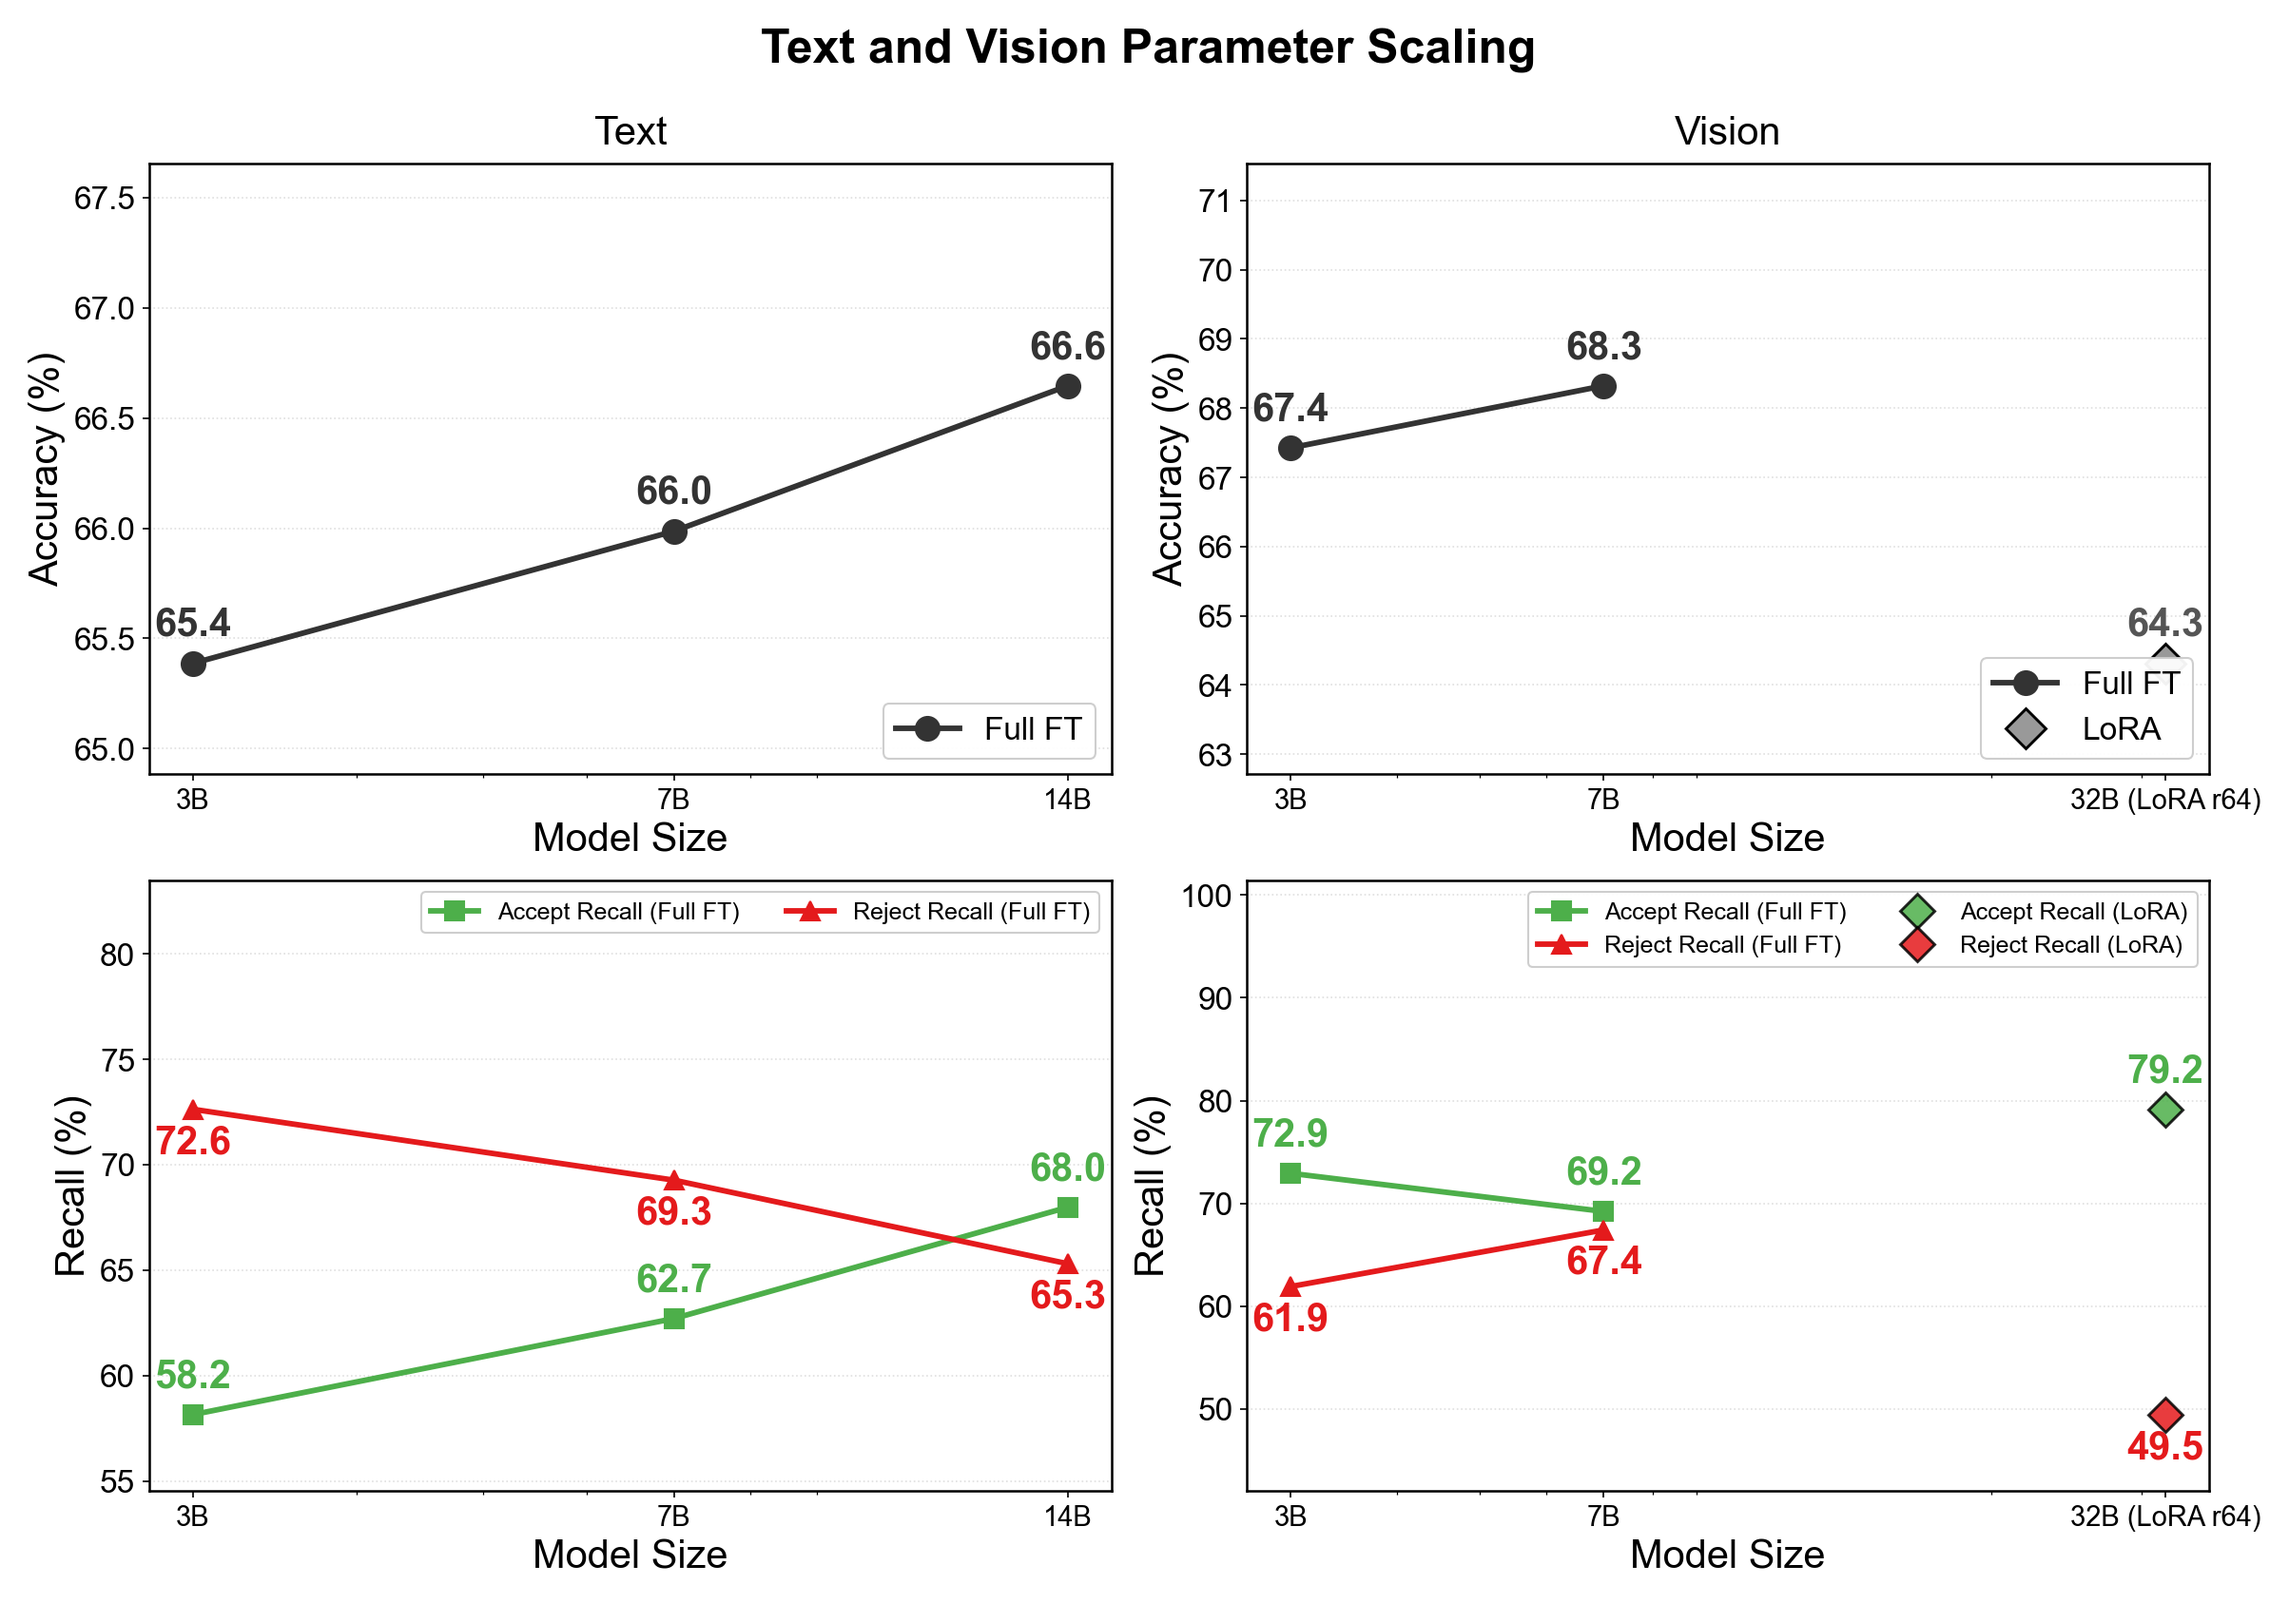
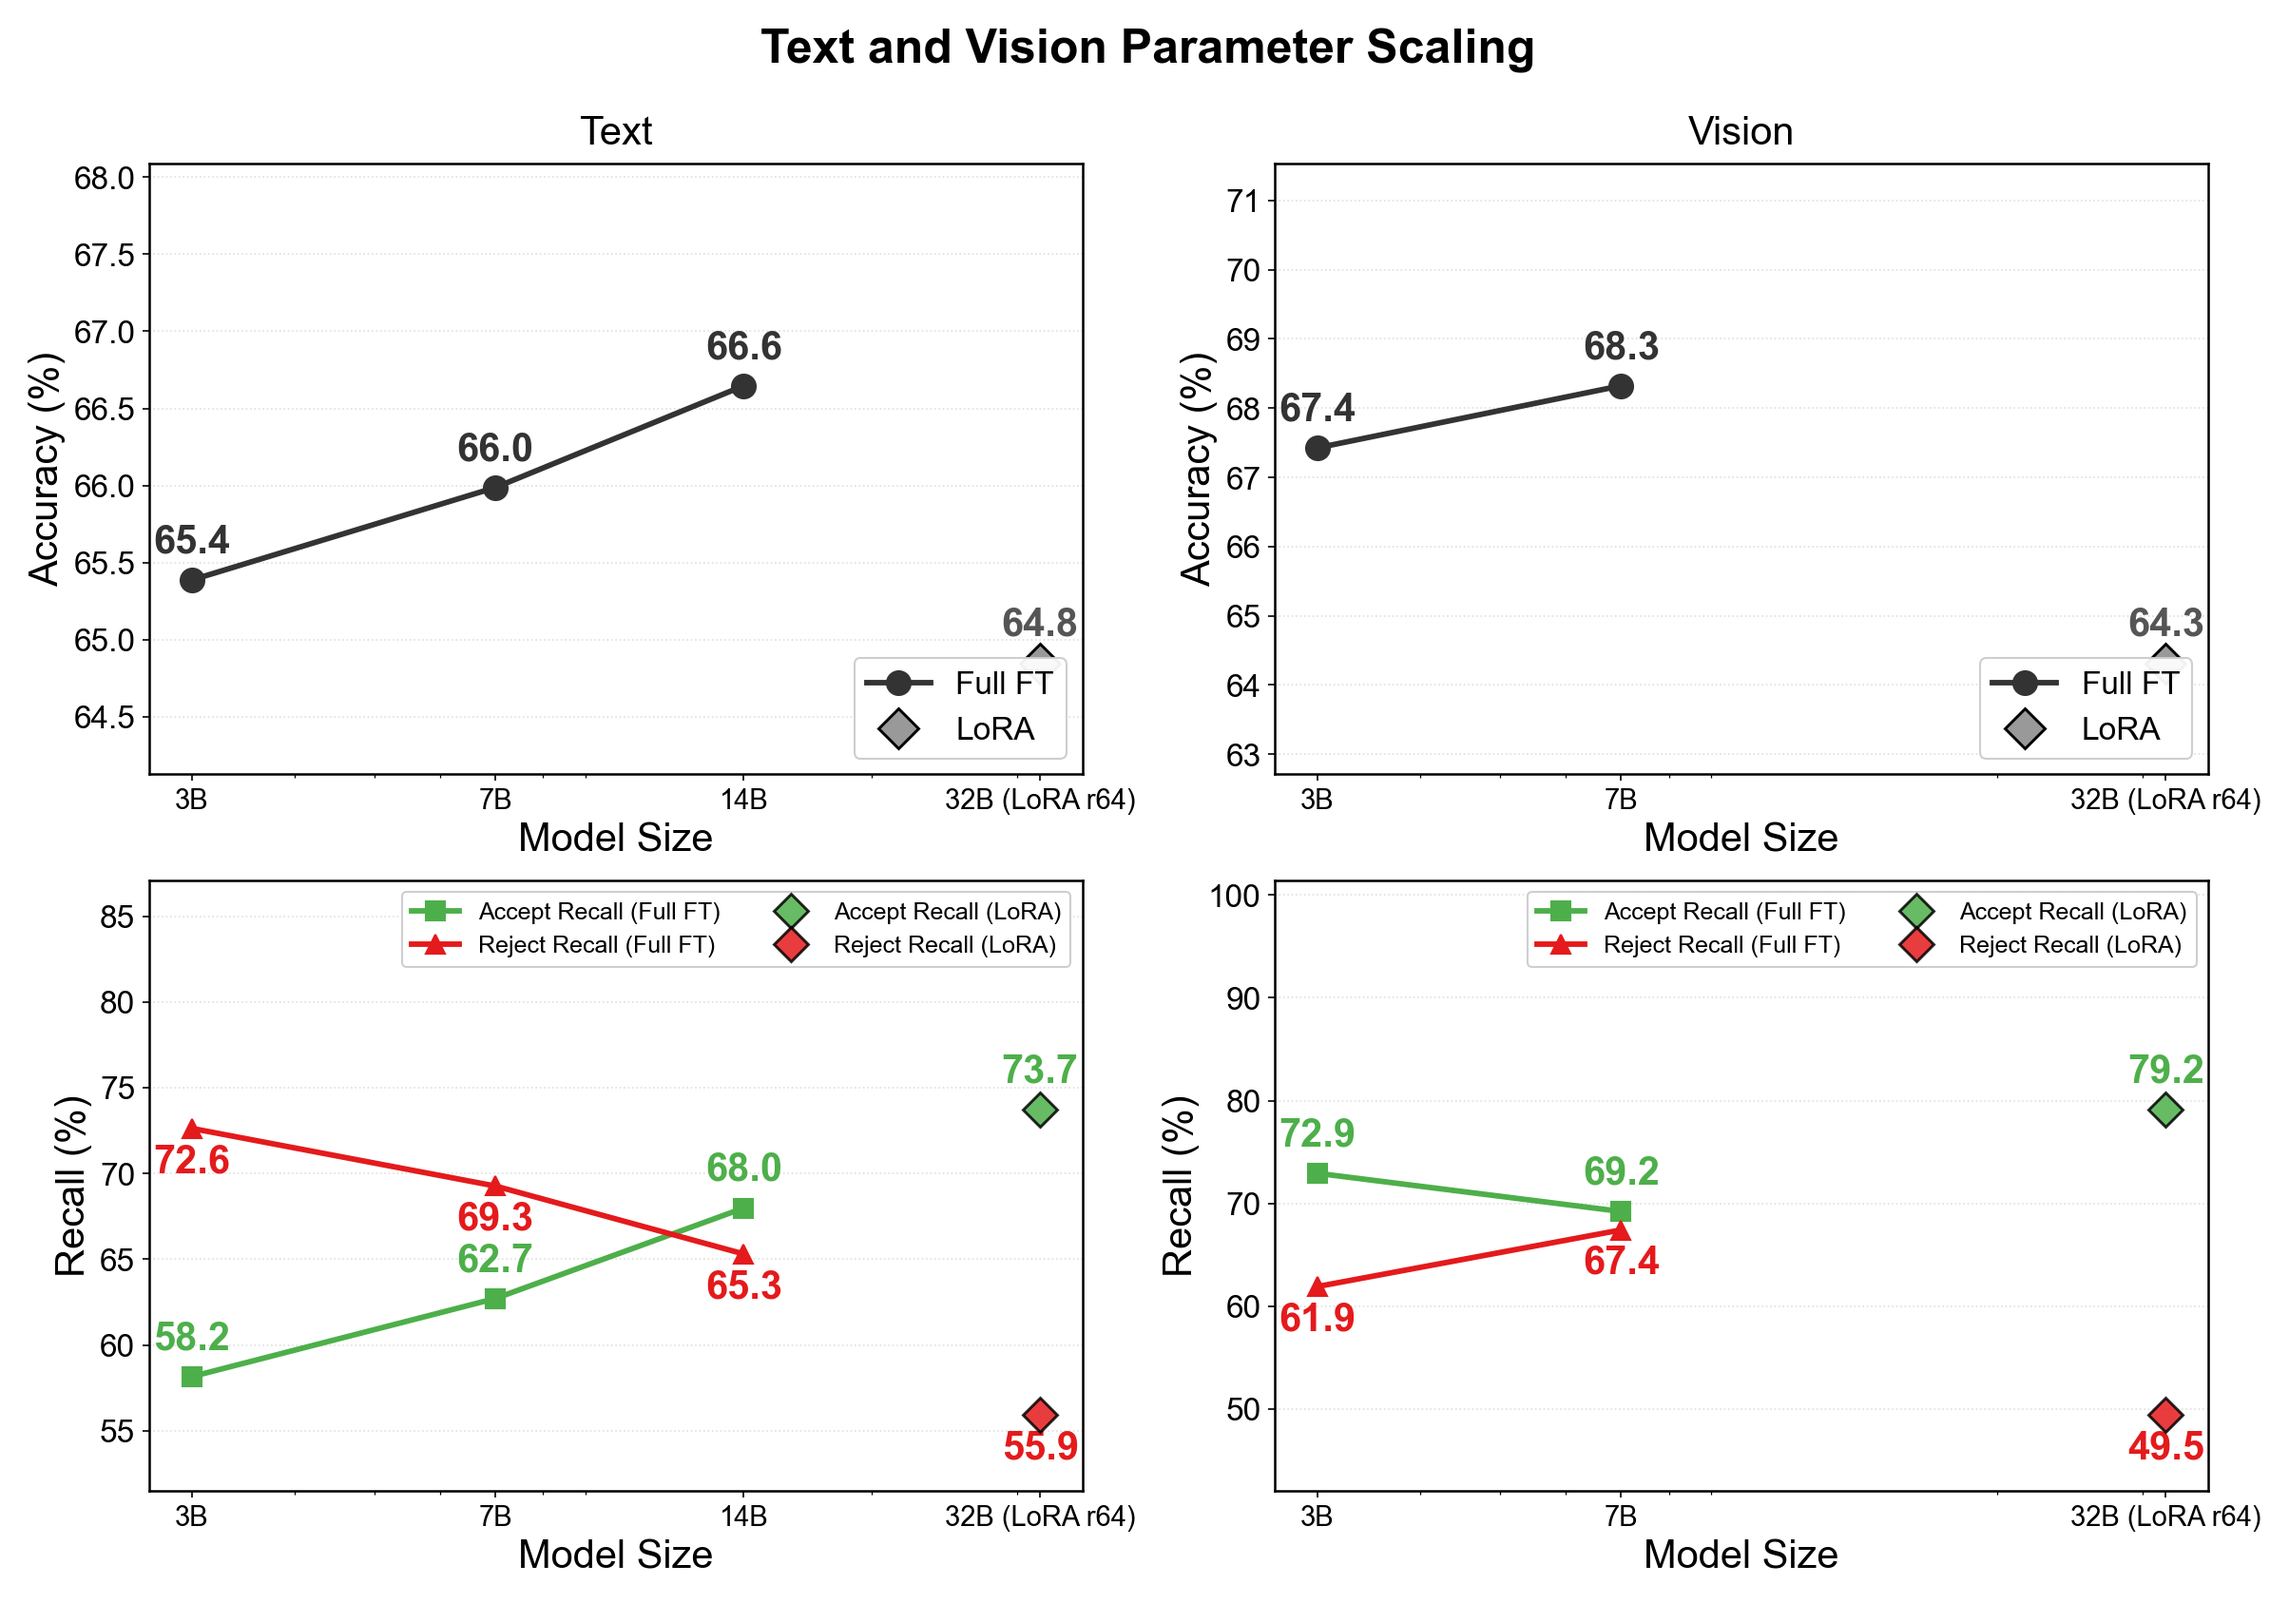
Scaling laws: add 32B text LoRA (r64) checkpoint result
Both 32B LoRA points now present (text + vision). Text 32B LoRA ckpt-1322
(epoch 2) scored 64.8% on 25+26 — close to vision 32B LoRA's 64.3% and
underperforms the 14B full-FT line (66.6%), confirming LoRA scaling
ceiling at rank 64.

diff --git a/scripts/tmp_latex_dir/generate_scaling_laws.py b/scripts/tmp_latex_dir/generate_scaling_laws.py
@@ -125,7 +125,9 @@ VIS_LORA_CONFIGS = [
     ("32B (LoRA r64)", 32.0, ROOT / "results/final_sweep_v7_datasweepv3/optim_search_2026/scaling/bz16_lr2e-5_vision_32b_lora/finetuned-ckpt-2648.jsonl", VIS_TDS),
 ]
 
-TEXT_LORA_CONFIGS: list = []  # No text 32B LoRA checkpoints yet
+TEXT_LORA_CONFIGS = [
+    ("32B (LoRA r64)", 32.0, ROOT / "results/final_sweep_v7_datasweepv3/optim_search_2026/scaling/bz32_lr2e-5_text_32b_lora/finetuned-ckpt-1322.jsonl", TEXT_TDS),
+]
 
 
 def collect(configs):
